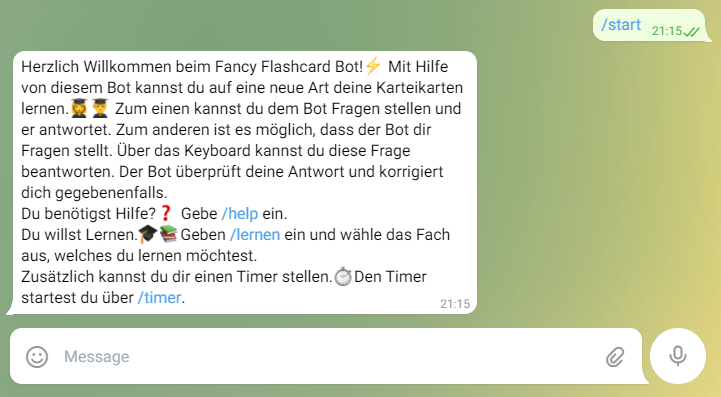
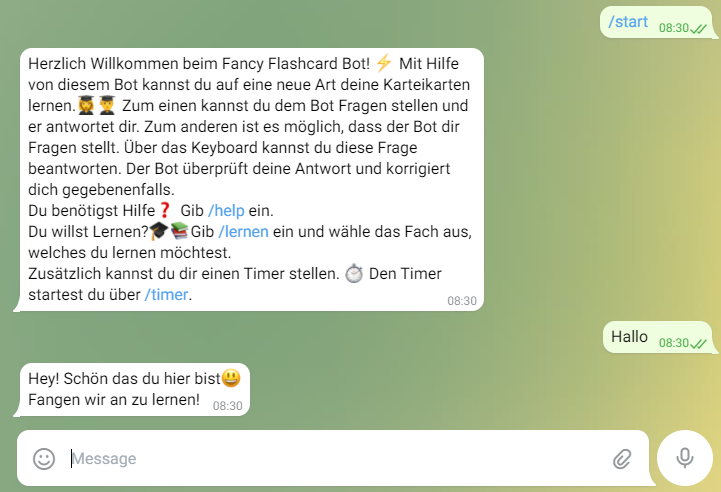
picture and text

diff --git a/chatbot/help.py b/chatbot/help.py
@@ -19,13 +19,13 @@ def help(update, context, path):
     "Über die automatisch erscheinenden Buttons kannst du das gewünschte Deck ganz einfach auswählen. "\
     "Im Anschluss stellt dir der Bot eine zufällige Frage aus deinem gewähltem Deck. Diese Frage kannst du nun beantworten.\n"\
     "Im nächsten Schritt kriegst du vom Bot eine Rückmeldung, ob deine Antwort richtig ist und wie die Musterlösung aussieht. "\
-    "Außerdem wirst du gefragt, ob du weiter lernen möchtest, aufhören möchtest oder das Deck wechseln möchtest. Hier kannst du wieder über die Buttons antworten. "\
+    "Außerdem wirst du gefragt, ob du weiter lernen möchtest, aufhören möchtest oder das Deck wechseln möchtest. Hier kannst du wieder über die Buttons antworten. \n\n"\
     "Solltest du Inhalte der Frage vom Bot nicht verstehen, tippe einfach deine Frage ein. "\
     "Der Bot antwortet dir nun auf deine Frage.\n"\
     "Sollte sich der Bot nicht sicher sein welche Frage du meinst erscheinen Auswahlbuttons. "\
-    "Nach Auswahl der gewünschten Frage antwortet der Bot auf die gewählte Frage.\n"\
-    "Außerdem kannst du dir einen Timer" + u'⏱' + " stellen während du lernst. Der Timer basiert auf der Promodoro Technik. "\
-    "Über /timer kannst du den Timer starten. Du kannst aus vordefinierten Timern wählen oder deinen eigenen Timer einstellen. "\
+    "Nach Auswahl der gewünschten Frage antwortet der Bot auf die gewählte Frage.\n\n"\
+    "Außerdem kannst du dir einen Timer " + u'⏱' + " stellen während du lernst. Der Timer basiert auf der Promodoro Technik. "\
+    "Über /timer kannst du den Timer starten. Du kannst aus vordefinierten Timern wählen oder deinen eigenen Timer erstellen. "\
     "Die Auswahlmöglichkeiten erscheinen über Buttons. Bei den vordefinierten  Timern wurde eine Arbeitszeit von 25 min bzw. 50 min festgelegt. "\
     "Darauf folgt eine Pause von 5 min bzw. 10 min. Dieser Zyklus wird 2 mal wiederholt. "\
     "Beim benutzerdefinierten Timer wirst du nach den jeweiligen Zeitintervallen und Wiederholungen gefragt. Antworte hier einfach mit deiner gewünschten Zahl an Minuten."

diff --git a/chatbot/main.py b/chatbot/main.py
@@ -34,11 +34,11 @@ ANSWER=3
 Input: update, context'''
 def start_command(update,  context):
     
-    text="Herzlich Willkommen beim Fancy Flashcard Bot!"+ u'⚡'+" Mit Hilfe von diesem Bot kannst du auf eine neue Art deine Karteikarten lernen."\
-        + u'👩🎓' + u'👨🎓' + " Zum einen kannst du dem Bot Fragen stellen und er antwortet. Zum anderen ist es möglich, dass der Bot dir Fragen stellt."\
-        "Über das Keyboard kannst du diese Frage beantworten. Der Bot überprüft deine Antwort und korrigiert dich gegebenenfalls. \nDu benötigst Hilfe?" + u'❓'+" Gib /help ein. \nDu willst Lernen?" + u'🎓'+u'📚' \
-        + "Gib /lernen ein und wähle das Fach aus, welches du lernen möchtest. \nZusätzlich kannst du dir einen Timer stellen."\
-        + u'⏱' +  "Den Timer startest du über /timer."
+    text="Herzlich Willkommen beim Fancy Flashcard Bot! "+ u'⚡'+" Mit Hilfe von diesem Bot kannst du auf eine neue Art deine Karteikarten lernen."\
+        + u'👩🎓' + u'👨🎓' + " Zum einen kannst du dem Bot Fragen stellen und er antwortet dir. Zum anderen ist es möglich, dass der Bot dir Fragen stellt. "\
+        "Über das Keyboard kannst du diese Frage beantworten. Der Bot überprüft deine Antwort und korrigiert dich gegebenenfalls. \nDu benötigst Hilfe" + u'❓'+" Gib /help ein. \nDu willst Lernen?" + u'🎓'+u'📚' \
+        + "Gib /lernen ein und wähle das Fach aus, welches du lernen möchtest. \nZusätzlich kannst du dir einen Timer stellen. "\
+        + u'⏱' +  " Den Timer startest du über /timer."
 
     bot.send_message(chat_id=update.message.chat_id, text=text)
 
